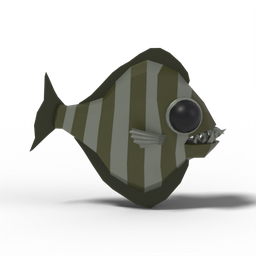
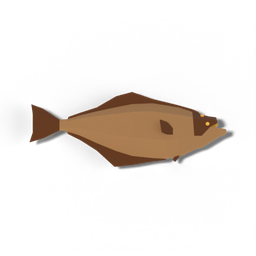
Memorable fish get their own shapes
Review item 6. 27 species pictures redrawn so the rare and legendary fish (and a few
commons) stop being recoloured copies of the same few models: pike, muskellunge,
barracuda and wahoo on a slender kingfish instead of a swordfish; trout and char on
real trout; salmon, halibut and the arctic skate (seen from above), a seahorse for
the Lantern Seahorse, a parrotfish, moray and conger eels, a darker shark for the
Greenland shark, redfish and sablefish. The white sturgeon, giant trevally,
toothfish and oarfish had no free model and are cut from one Higgsfield sheet
(2.75 credits). New models are CC0 / CC BY 3.0 (poly.pizza), credited in CREDITS.md
and the in-game credits.

Also: the Book's tabs no longer run under the TROPHIES button (the count moves to the
description row), and the FISH button shows a bass.

Claude-Session: https://claude.ai/code/session_012yMWpKR8dRvjZTJUANyWHF

diff --git a/Tools/art/fish.py b/Tools/art/fish.py
@@ -3,7 +3,7 @@
 art-src/free/fish, a picture of each rendered by Blender, and one picture per species made from its model's picture
 with the species' own colouring: Assets/Resources/UI/Species/<species id>.png (dots as underscores).
 
-  python3 -I Tools/art/fish.py fetch | render | species | all
+  python3 -I Tools/art/fish.py fetch | render | species | all     (ai: cuts the paid Higgsfield sheet; making it costs credits)
 """
 import colorsys, json, os, re, subprocess, sys, time, urllib.request
 ROOT = os.path.dirname(os.path.dirname(os.path.dirname(os.path.abspath(__file__))))
@@ -17,28 +17,33 @@ MODELS = {  # base name: poly.pizza id
     "bluetang": "TQaMo8GTJl", "turbot": "E8NjhhdvSU", "flatfish": "X5EjEA6fMF", "grouper": "Q2GNw9TRzF", "flowerhorn": "ExfO0SGWmf", "gramma": "e8u2OQ9Quz",
     "mandarin": "h6M5zlF5Yx", "tetra": "l6AhogdZHe", "cardinal": "YyZyVhg2Jq", "blobfish": "7Jh8vsARfN", "crab": "Gs3yfsV5lB", "squid": "gReSPnGdkr",
     "octopus": "9-b6-yqrwEe", "lobster": "7JIU-w5So3a", "shrimp": "5HI1OYII63P", "eel": "eRb-GgLCnA7",
+    # Their own shapes for the memorable fish (rare and up), so a pike isn't a swordfish in another colour.
+    "trout": "2W2sKWYvk8k", "trout_b": "0HCLwTdxvz5", "halibut": "653otKgnnpx", "seahorse_b": "fkK7TgvkSVG", "kingfish": "e_Lkl7E-Tc8",
+    "shark_e": "8Ke5qCnWxsZ", "eel_b": "9re2iW8tOnP", "eel_d": "dDzthiG8nr9", "manta": "yzD8b7ZHZm", "parrot": "lj0WFfJkbb",
+    "fish_q": "XWl86YFtpF", "fish_g": "aEyLrUMMoUK", "fish_k": "HkUAXudvBt",
 }
 VIEW = {"crab": 20, "octopus": 20, "lobster": 60, "shrimp": 60, "squid": 60}       # yaw for the picture; fish default below
+PITCH = {"halibut": 62, "manta": 68}       # flat fish and rays are seen from above
 # Species -> (model, hue shift in degrees, saturation x, brightness x)
 S = {
     "lake": {"Bluegill": ("tang", 150, .8, 1), "Yellow Perch": ("snapper", 45, 1, 1.05), "Roach": ("tetra", 0, .5, 1.05), "Crappie": ("butterfly", 200, .3, .95), "Bream": ("idol", 20, .35, 1),
              "Tench": ("grouper", 90, .7, .8), "Rudd": ("goldfish", -15, .9, 1), "Largemouth Bass": ("grouper", 110, .8, .85), "Common Carp": ("koi", 30, .5, .8), "Walleye": ("snapper", 60, .5, .8),
-             "Channel Catfish": ("catfish", 0, .6, .9), "Northern Pike": ("swordfish", 110, .7, .8), "Mirror Carp": ("koi", 25, .8, 1), "Burbot": ("catfish", 30, .5, .7), "Muskellunge": ("swordfish", 80, .6, .7), "Golden Koi": ("koi", 0, 1, 1.25)},
-    "river": {"Brown Trout": ("tuna", 190, .6, .85), "Chub": ("tetra", 30, .4, .9), "Dace": ("tetra", 180, .4, 1.1), "Grayling": ("tuna", 240, .3, 1), "Barbel": ("catfish", 20, .7, 1), "Smallmouth Bass": ("grouper", 70, .7, .8),
-              "Minnow": ("tetra", 0, 1, 1), "Rainbow Trout": ("tuna", 120, .9, 1.05), "River Eel": ("eel", 0, 1, 1), "Zander": ("snapper", 80, .4, .9), "Brook Char": ("tuna", 170, 1, .9), "Atlantic Salmon": ("tuna", 150, .5, 1.1),
-              "Steelhead": ("tuna", 0, .5, 1.1), "Wels Catfish": ("catfish", -20, .5, .6), "White Sturgeon": ("goblin", 0, .4, 1), "Ghost Salmon": ("tuna", 0, .1, 1.5)},
+             "Channel Catfish": ("catfish", 0, .6, .9), "Northern Pike": ("kingfish", -105, 1.3, .9), "Mirror Carp": ("koi", 25, .8, 1), "Burbot": ("catfish", 30, .5, .7), "Muskellunge": ("kingfish", -175, 1.1, 1.05), "Golden Koi": ("koi", 0, 1, 1.25)},
+    "river": {"Brown Trout": ("trout", 40, .7, .85), "Chub": ("tetra", 30, .4, .9), "Dace": ("tetra", 180, .4, 1.1), "Grayling": ("tuna", 240, .3, 1), "Barbel": ("catfish", 20, .7, 1), "Smallmouth Bass": ("grouper", 70, .7, .8),
+              "Minnow": ("tetra", 0, 1, 1), "Rainbow Trout": ("trout", 0, 1, 1.05), "River Eel": ("eel", 0, 1, 1), "Zander": ("snapper", 80, .4, .9), "Brook Char": ("trout_b", -15, .75, .75), "Atlantic Salmon": ("fish_q", 0, .75, 1),
+              "Steelhead": ("trout", 0, .4, 1.1), "Wels Catfish": ("catfish", -20, .5, .6), "White Sturgeon": ("sturgeon", 0, .77, .9), "Ghost Salmon": ("fish_q", 0, .1, 1.05)},
     "coast": {"Mackerel": ("tuna", -20, 1, 1), "Herring": ("tetra", 200, .3, 1.15), "Pollock": ("snapper", 110, .4, .9), "Whiting": ("snapper", 200, .2, 1.15), "Flounder": ("flatfish", 0, 1, 1), "Shore Crab": ("crab", 100, .7, .8),
               "Sardine": ("tetra", 210, .5, 1.1), "Sea Bass": ("grouper", 200, .3, 1), "Atlantic Cod": ("grouper", 50, .5, .9), "Brown Crab": ("crab", 15, .8, .8), "Squid": ("squid", 0, 1, 1), "Lobster": ("lobster", 0, 1, 1),
-              "Turbot": ("turbot", 0, 1, 1), "Conger Eel": ("eel", 180, .5, .7), "Halibut": ("flatfish", 60, .5, .8), "Blue Lobster": ("lobster", 215, 1.2, 1)},
-    "reef": {"Clownfish": ("clown", 0, 1, 1), "Blue Tang": ("bluetang", 0, 1, 1), "Butterflyfish": ("butterfly", 0, 1, 1), "Parrotfish": ("grouper", 150, 1.1, 1.1), "Snapper": ("snapper", 0, 1, 1), "Damselfish": ("tang", 200, 1, 1),
+              "Turbot": ("turbot", 0, 1, 1), "Conger Eel": ("eel_d", 0, .3, .75), "Halibut": ("halibut", 0, 1, 1), "Blue Lobster": ("lobster", 215, 1.2, 1)},
+    "reef": {"Clownfish": ("clown", 0, 1, 1), "Blue Tang": ("bluetang", 0, 1, 1), "Butterflyfish": ("butterfly", 0, 1, 1), "Parrotfish": ("parrot", 0, 1, 1), "Snapper": ("snapper", 0, 1, 1), "Damselfish": ("tang", 200, 1, 1),
              "Wrasse": ("gramma", 0, 1, 1), "Angelfish": ("idol", 0, 1, 1), "Grouper": ("grouper", 0, 1, 1), "Reef Octopus": ("octopus", 0, 1, 1), "Triggerfish": ("cowfish", 0, 1, 1), "Lionfish": ("lionfish", 0, 1, 1),
-             "Barracuda": ("swordfish", 180, .3, 1.1), "Moray Eel": ("eel", 60, 1, .9), "Giant Trevally": ("sunfish", 0, .4, 1.1), "Lantern Seahorse": ("mandarin", 0, 1, 1.1)},
+             "Barracuda": ("kingfish", 0, .25, 1.15), "Moray Eel": ("eel_b", 0, 1, .9), "Giant Trevally": ("trevally", 0, .77, .9), "Lantern Seahorse": ("seahorse_b", 0, 1, 1.1)},
     "deep": {"Skipjack Tuna": ("tuna", 0, 1, 1), "Mahi-Mahi": ("flowerhorn", 60, 1, 1.1), "Bonito": ("tuna", 30, .7, .95), "Flying Fish": ("cardinal", 200, .8, 1.1), "Albacore": ("tuna", -10, .5, 1.15), "Amberjack": ("grouper", 30, .8, 1.1),
-             "Wahoo": ("swordfish", 20, .7, 1), "Yellowfin Tuna": ("tuna", 200, 1.1, 1.1), "Sailfish": ("swordfish", 0, 1, 1), "Giant Squid": ("squid", -20, 1.2, .9), "Mako Shark": ("shark", 0, 1, 1), "Swordfish": ("swordfish", -30, .6, .8),
-             "Bluefin Tuna": ("tuna", 10, 1.3, .8), "Oarfish": ("eel", 200, .4, 1.3), "Blue Marlin": ("swordfish", 10, 1.4, .9), "Anglerfish King": ("angler", 0, 1, 1)},
-    "arctic": {"Arctic Char": ("tuna", 150, 1.1, 1), "Capelin": ("tetra", 190, .3, 1.2), "Polar Cod": ("snapper", 190, .2, 1.1), "Lumpfish": ("puffer", 0, 1, 1), "Snow Crab": ("crab", 20, .4, 1.3), "Redfish": ("snapper", -10, 1.2, 1),
-               "Northern Shrimp": ("shrimp", 0, 1, 1), "Greenland Halibut": ("flatfish", 200, .3, .7), "King Crab": ("crab", 0, 1.2, 1), "Wolffish": ("blobfish", 180, .5, .8), "Arctic Skate": ("turbot", 190, .4, 1),
-               "Sablefish": ("grouper", 220, .3, .5), "Giant Pacific Octopus": ("octopus", -20, 1.2, .9), "Toothfish": ("piranha", 200, .3, .8), "Greenland Shark": ("goblin", 200, .3, .7), "Aurora Char": ("tuna", 100, 1.5, 1.3)},
+             "Wahoo": ("kingfish", 0, 1.1, 1.05), "Yellowfin Tuna": ("tuna", 200, 1.1, 1.1), "Sailfish": ("swordfish", 0, 1, 1), "Giant Squid": ("squid", -20, 1.2, .9), "Mako Shark": ("shark", 0, 1, 1), "Swordfish": ("swordfish", -30, .6, .8),
+             "Bluefin Tuna": ("tuna", 10, 1.3, .8), "Oarfish": ("oarfish", 0, .77, .9), "Blue Marlin": ("swordfish", 10, 1.4, .9), "Anglerfish King": ("angler", 0, 1, 1)},
+    "arctic": {"Arctic Char": ("trout", 20, 1.1, 1), "Capelin": ("tetra", 190, .3, 1.2), "Polar Cod": ("snapper", 190, .2, 1.1), "Lumpfish": ("puffer", 0, 1, 1), "Snow Crab": ("crab", 20, .4, 1.3), "Redfish": ("fish_k", 0, 1.1, 1),
+               "Northern Shrimp": ("shrimp", 0, 1, 1), "Greenland Halibut": ("halibut", 180, .3, .75), "King Crab": ("crab", 0, 1.2, 1), "Wolffish": ("blobfish", 180, .5, .8), "Arctic Skate": ("manta", 0, .4, 1),
+               "Sablefish": ("fish_g", 0, .3, .55), "Giant Pacific Octopus": ("octopus", -20, 1.2, .9), "Toothfish": ("toothfish", 0, .77, .9), "Greenland Shark": ("shark_e", 0, .35, .7), "Aurora Char": ("trout", 100, 1.5, 1.05)},
 }
 
 
@@ -67,7 +72,7 @@ def fetch():
 
 
 def render(only=None):
-    jobs = [dict(name=n, files=[os.path.join(SRC, n + ".glb")], out=os.path.join(SRC, "pic", n + ".png"), yaw=VIEW.get(n, 125), pitch=12)
+    jobs = [dict(name=n, files=[os.path.join(SRC, n + ".glb")], out=os.path.join(SRC, "pic", n + ".png"), yaw=VIEW.get(n, 125), pitch=PITCH.get(n, 12))
             for n in MODELS if (not only or n in only) and os.path.exists(os.path.join(SRC, n + ".glb"))]
     os.makedirs(os.path.join(SRC, "pic"), exist_ok=True)
     jf = os.path.join(SRC, "jobs.json"); json.dump(jobs, open(jf, "w"))
@@ -103,6 +108,69 @@ def species():
     print(n, "species pictures in", OUT)
 
 
+# Fish no free model fits, painted by Higgsfield (paid: one 2x2 concept sheet, 2.75 credits; ask before running). The
+# sheet already looks like the book's renders, so each fish is cut out of it (white flooded away from the edges) and
+# used as its picture: art-src/free/fish/pic/<name>.png, then `species` colours them like the others.
+AI = ["sturgeon", "trevally", "toothfish", "oarfish"]
+AI_SPLIT = (0.509, 0.503)       # where the quarters meet (the sturgeon's snout runs just past the middle)
+AI_PROMPT = ("A 2x2 grid of four separate fish, each a clean low-poly flat-shaded 3D game model in the style of a cute mobile "
+             "fishing game, seen exactly from the side facing right, whole body in frame with space around it, plain pure white "
+             "background, soft even studio light, no text, no labels, no water. Top left: a white sturgeon, long grey body, "
+             "pointed shovel snout with four whiskers, rows of bony plates along the back and sides, shark-like upturned tail. "
+             "Top right: a giant trevally, deep silver-grey compressed body, steep blunt forehead, long sickle tail fork, dark "
+             "dorsal fins. Bottom left: a Patagonian toothfish, heavy dark grey-brown cod-like body, big jaw with small teeth, "
+             "pale eye. Bottom right: an oarfish, very long ribbon-like silver body with a bright red crest running the length "
+             "of its back and red fin plumes on its head.")
+
+
+def ai():
+    from PIL import Image, ImageDraw
+    sheet = os.path.join(SRC, "ai_sheet.png")
+    if not os.path.exists(sheet):
+        r = subprocess.run(["higgsfield", "generate", "create", "gpt_image_2_5", "--aspect_ratio", "1:1", "--quality", "high",
+                            "--resolution", "2k", "--background", "opaque", "--prompt", AI_PROMPT, "--wait"], capture_output=True, text=True)
+        url = next((l for l in reversed((r.stdout + r.stderr).splitlines()) if l.startswith("http")), None)
+        if not url: raise SystemExit((r.stdout + r.stderr)[-500:])
+        open(sheet, "wb").write(urllib.request.urlopen(urllib.request.Request(url, headers=UA), timeout=300).read())
+        print("sheet", url)
+    im = Image.open(sheet).convert("RGB"); w, h = im.size
+    sx, sy = int(w * AI_SPLIT[0]), int(h * AI_SPLIT[1])
+    boxes = [(0, 0, sx, sy), (sx, 0, w, sy), (0, sy, sx, h), (sx, sy, w, h)]
+    os.makedirs(os.path.join(SRC, "pic"), exist_ok=True)
+    man_path = os.path.join(SRC, "manifest.json"); man = json.load(open(man_path))
+    for name, box in zip(AI, boxes):
+        q = im.crop(box)
+        # Flood the white background from the border into a mask, so pale bellies and highlights inside the fish stay.
+        mask = Image.new("L", q.size, 0); px = q.load(); mk = mask.load(); qw, qh = q.size
+        stack = [(x, y) for x in range(qw) for y in (0, qh - 1)] + [(x, y) for y in range(qh) for x in (0, qw - 1)]
+        white = lambda p: min(p) > 232 and max(p) - min(p) < 18
+        while stack:
+            x, y = stack.pop()
+            if mk[x, y] or not white(px[x, y]): continue
+            mk[x, y] = 255
+            if x > 0: stack.append((x - 1, y))
+            if x < qw - 1: stack.append((x + 1, y))
+            if y > 0: stack.append((x, y - 1))
+            if y < qh - 1: stack.append((x, y + 1))
+        alpha = mask.point(lambda v: 255 - v)
+        out = q.convert("RGBA"); out.putalpha(alpha)
+        out = out.crop(out.getbbox())
+        # The soft shadow the rendered fish cast on the floor under them.
+        from PIL import ImageFilter
+        fw, fh = out.size; pad = fh // 6
+        canvas = Image.new("RGBA", (fw + 2 * pad, fh + 2 * pad), (0, 0, 0, 0))
+        shadow = Image.new("L", canvas.size, 0)
+        ImageDraw.Draw(shadow).ellipse((pad + fw * 0.08, pad + fh * 0.93, pad + fw * 0.92, pad + fh * 1.07), fill=70)
+        shadow = shadow.filter(ImageFilter.GaussianBlur(pad // 2))
+        canvas.paste((40, 50, 60, 255), (0, 0), shadow)
+        canvas.alpha_composite(out, (pad, pad))
+        out = canvas.crop(canvas.getbbox())
+        out.save(os.path.join(SRC, "pic", name + ".png"))
+        man[name] = {"id": "higgsfield", "title": name.title(), "author": "Rushing Technologies (Higgsfield)", "licence": "own"}
+        print("picture", name, out.size)
+    json.dump(man, open(man_path, "w"), indent=1)
+
+
 def credits():
     man = json.load(open(os.path.join(SRC, "manifest.json")))
     by = {}
@@ -115,3 +183,4 @@ if cmd in ("fetch", "all"): fetch()
 if cmd in ("render", "all"): render(sys.argv[2:] or None)
 if cmd in ("species", "all"): species()
 if cmd == "credits": credits()
+if cmd == "ai": ai()

diff --git a/Assets/Scripts/Game/UI/Hud.Screens.cs b/Assets/Scripts/Game/UI/Hud.Screens.cs
@@ -22,7 +22,7 @@ namespace ReelEmpire.Game
             _nav["book"] = NavButton(new Vector2(0, 0), new Vector2(84, 16), "BOOK", Resources.Load<Sprite>("UI/Species/lake_golden_koi"), Color.white, () => Open(Page.Book), false);
             _nav["awards"] = NavButton(new Vector2(0, 0), new Vector2(226, 16), "AWARDS", Ui.Art("star"), Color.white, () => Open(Page.Awards), true);
             _nav["today"] = NavButton(new Vector2(0, 0), new Vector2(368, 16), "TODAY", Ui.Ic("calendar"), Ui.Ink, () => Open(Page.Today), true);
-            _nav["angling"] = NavButton(new Vector2(0, 0), new Vector2(84, 176), "FISH", Resources.Load<Sprite>("UI/Species/lake_northern_pike"), Color.white, OpenAngling, false);
+            _nav["angling"] = NavButton(new Vector2(0, 0), new Vector2(84, 176), "FISH", Resources.Load<Sprite>("UI/Species/lake_largemouth_bass"), Color.white, OpenAngling, false);
             _nav["crew"] = NavButton(new Vector2(1, 0), new Vector2(-368, 16), "CREW", Resources.Load<Sprite>("UI/Faces/crew_brannock"), Color.white, () => Open(Page.Crew), true);
             NavButton(new Vector2(1, 0), new Vector2(-226, 16), "SHOP", Ui.Art("gem"), Color.white, () => Open(Page.Shop), false);
             NavButton(new Vector2(1, 0), new Vector2(-84, 16), "MORE", Ui.Ic("gear"), Ui.Ink, () => Open(Page.Settings), false);
@@ -516,12 +516,12 @@ namespace ReelEmpire.Game
             {
                 var d = Content.Harbours[i]; bool open = i < s.State.harbours.Count; string id = d.Id;
                 var tab = Ui.Button("Tab", p, open ? d.Water.ToUpperInvariant() : "?", id == _bookHarbour ? Ui.Blue : Ui.Off, open ? (Action)(() => { _bookHarbour = id; _listY = 0; if (_list != null) _list.anchoredPosition = Vector2.zero; ShowBook(); }) : null, 26);
-                ((RectTransform)tab.transform).Place(new Vector2(0, 1), new Vector2(0, 1), new Vector2(40 + i * 204, -72), new Vector2(196, 66));
+                ((RectTransform)tab.transform).Place(new Vector2(0, 1), new Vector2(0, 1), new Vector2(40 + i * 186, -72), new Vector2(180, 66));
             }
             var all = Book.In(_bookHarbour);
             int trophyPct = Mathf.RoundToInt((float)((s.TrophyMult - 1) * 100));
             var count = Ui.Label("C", p, s.CaughtIn(_bookHarbour) + " / " + all.Count + (s.PageComplete(_bookHarbour) ? "  +10% here" : ""), 28, Ui.Ink, TextAnchor.MiddleRight);
-            count.rectTransform.Place(new Vector2(1, 1), new Vector2(1, 1), new Vector2(-300, -72), new Vector2(200, 66));
+            count.rectTransform.Place(new Vector2(1, 1), new Vector2(1, 1), new Vector2(-44, -140), new Vector2(300, 40));
             var hall = Ui.Button("Hall", p, "TROPHIES" + (trophyPct > 0 ? "  +" + trophyPct + "%" : ""), Ui.Gold, () => OpenHall(null, () => Open(Page.Book)), 24);
             ((RectTransform)hall.transform).Place(new Vector2(1, 1), new Vector2(1, 1), new Vector2(-40, -72), new Vector2(250, 66));
             // Tiles, six across.
@@ -683,7 +683,7 @@ namespace ReelEmpire.Game
             "Reel Empire: Idle Tycoon is made by Rushing Technologies.\n\n" +
             "<b>Models</b>\nBoats, the truck, trees, rocks, props and the porters: Kenney (kenney.nl), CC0.\n" +
             "Barns, market stalls, docks, fish and sea creatures: Quaternius (quaternius.com), CC0. Lighthouse: MaverickFX, CC0.\n" +
-            "Octopus, Lobster and Eel: Poly by Google, CC BY 3.0. Shrimp: jeremy, CC BY 3.0. (poly.pizza)\n\n" +
+            "Octopus, Lobster, Eels, Trout, Halibut, Kingfish, Seahorse, Shark and Fish: Poly by Google, CC BY 3.0. Shrimp: jeremy, CC BY 3.0. Fish: Kenney, CC0. (poly.pizza)\n\n" +
             "<b>Fonts</b>\nLilita One by Juan Montoreano and Fredoka by Milena Brandão and Hafontia, SIL Open Font License.\n\n" +
             "<b>Sound</b>\nInterface sounds: Kenney, CC0.\n\n<b>Icons</b>\nFont Awesome Free by Fonticons, Inc. (fontawesome.com), CC BY 4.0.\n\n<b>Sky</b>\nPoly Haven, CC0.\n\nThank you for playing.";
 

diff --git a/CREDITS.md b/CREDITS.md
@@ -13,14 +13,16 @@ Reel Empire: Idle Tycoon is made by Rushing Technologies. It uses these free wor
   `Tools/art/props.py`.
 - **MaverickFX** (via poly.pizza): Light House.
 - **Quaternius** (quaternius.com, via poly.pizza): the fish and sea creatures of the species book (Cute Fish pack:
-  Tuna, Koi, Goldfish, Red Snapper, Clownfish, Armored Catfish, Cowfish, Moorish Idol, Sunfish, Swordfish, Lionfish,
-  Puffer, Anglerfish, Butterfly Fish, Shark, Goblin Shark, Piranha, Tang, Blue Tang, Turbot, Flatfish, Coral Grouper,
-  Flower Horn, Royal Gramma, Mandarin Fish, Tetra, Cardinal Fish, Blobfish; Crab Enemy, Squid). Pictures rendered and
+  Tuna, Koi, Goldfish, Red Snapper, Clownfish, Armored Catfish, Cowfish, Moorish Idol, Swordfish, Lionfish,
+  Puffer, Anglerfish, Butterfly Fish, Shark, Tang, Blue Tang, Turbot, Flatfish, Coral Grouper, Flower Horn,
+  Royal Gramma, Tetra, Cardinal Fish, Blobfish; Crab Enemy, Squid; Fish, Parrot Fish, Manta Ray). Pictures rendered and
   recoloured per species by `Tools/art/fish.py`.
+- **Kenney** (kenney.nl, via poly.pizza): Fish (the redfish).
+- The white sturgeon, giant trevally, toothfish and oarfish pictures are the studio's own, made with Higgsfield.
 
 ## Models (CC BY 3.0, via poly.pizza)
 
-- **Poly by Google**: Octopus, Lobster, Eel.
+- **Poly by Google**: Octopus, Lobster, Eel (three), Trout (two), Halibut, Kingfish, Seahorse, Shark, Fish.
 - **jeremy**: Shrimp.
 
 ## Fonts (SIL Open Font License 1.1)

diff --git a/CLAUDE.md b/CLAUDE.md
@@ -37,6 +37,9 @@ platform code, tools and conventions are the same.
 - Fish: `Tools/art/fish.py fetch|render|species` downloads the fish models (poly.pizza; refuses anything not CC0 / CC
   BY), renders each with `Tools/blender/icon_render.py`, and makes one picture per species (its model's picture,
   hue-shifted by the table in the script) in `Resources/UI/Species/<harbour>_<name>.png` (`Hud.SpeciesPicture`).
+  Memorable fish get their own shape (no pike drawn as a swordfish): trout, kingfish (pike, musky, barracuda, wahoo),
+  halibut and the skate seen from above (`PITCH`), seahorse, parrotfish, eels. Sturgeon, trevally, toothfish and oarfish
+  are cut from one paid Higgsfield sheet (`fish.py ai`, `art-src/free/fish/ai_sheet.png`; regenerating it costs credits).
 - Screens (`UI/Hud.Screens.cs`, round buttons in the bottom corners): BOOK (tiles by harbour; uncaught ones are
   silhouettes with when they bite), AWARDS (claim gems), SHOP (time warps for gems, the one-time purchases, gem packs,
   restore), MORE (sound, music, battery saver, reminders, statistics, Sign in with Apple, name, iCloud, Game Center,
